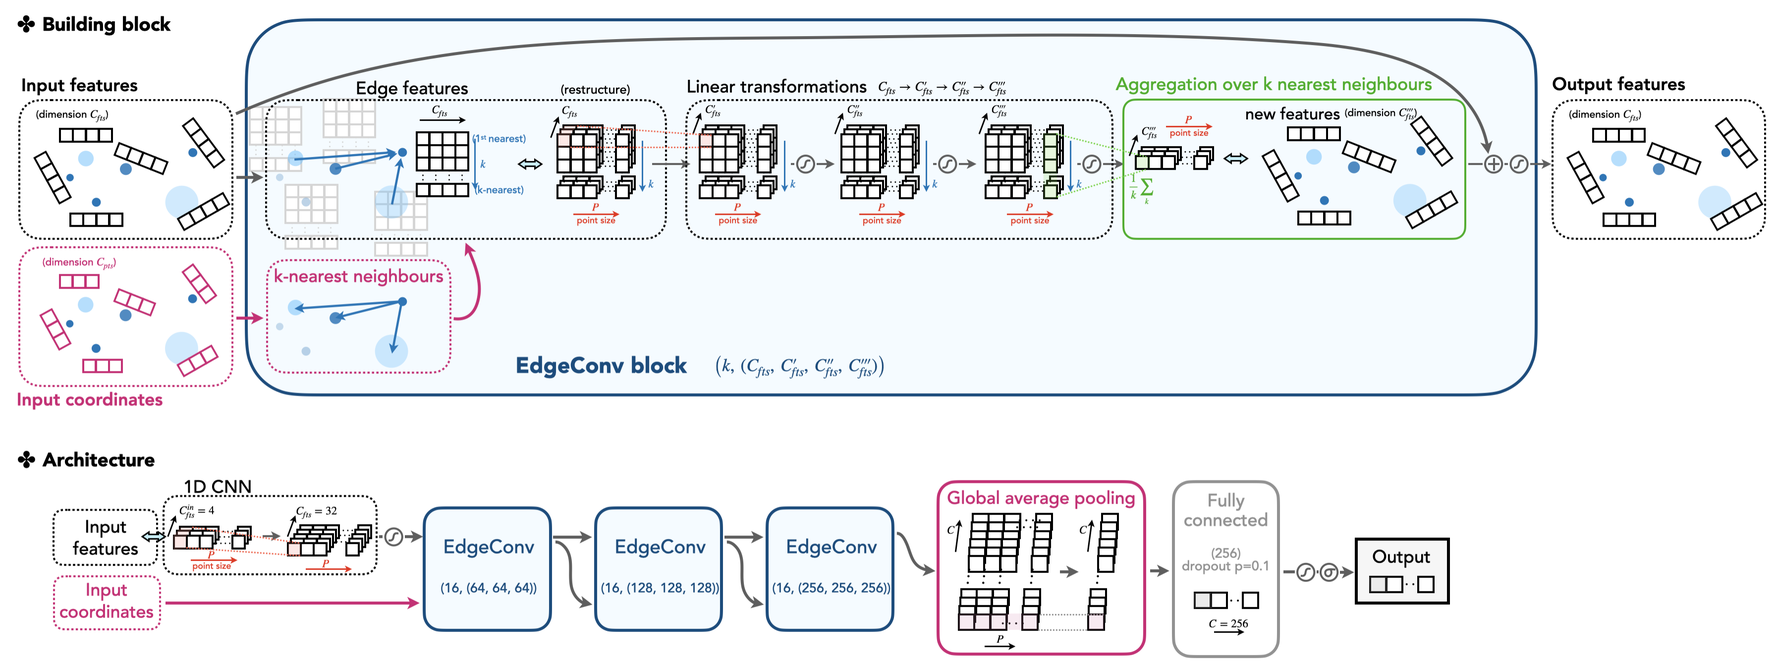
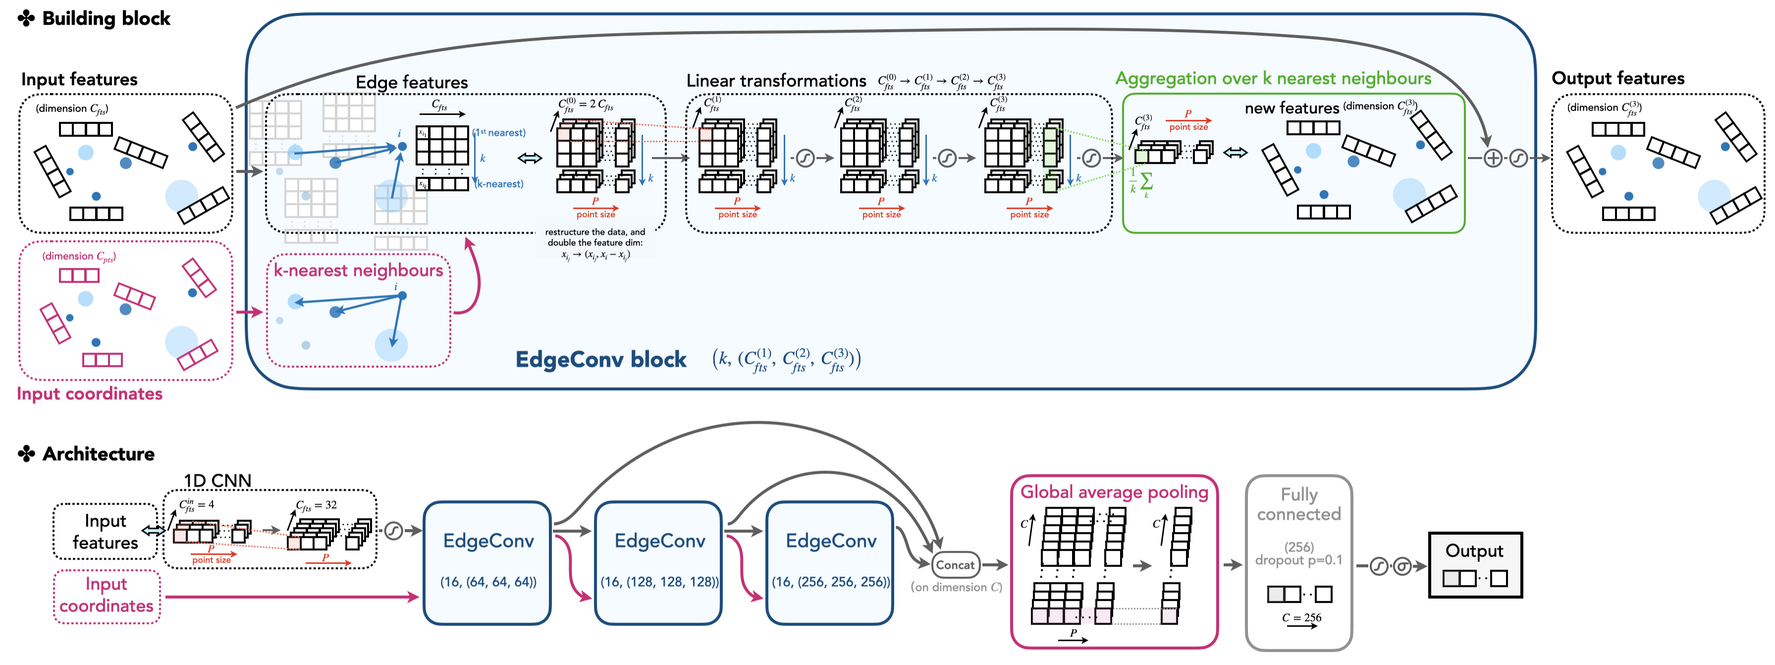
Update the ParticleNet section in the training subsection and the full architecture plot

diff --git a/content/inference/particlenet.md b/content/inference/particlenet.md
@@ -69,7 +69,7 @@ The imaged-based data explored by a 2D CNN stems from the image recognition task
 Here we briefly summarize the applications and ongoing works on ParticleNet. Public CMS results include
 
  - large-*R* jet with *R*=0.8 tagging (for W/Z/H/t) using ParticleNet [[CMS-DP-2020/002](https://cds.cern.ch/record/2707946/files/DP2020_002.pdf)]
- - regression on the large-*R* jet mass based on the ParticleNet model [[CMS-DP-2020/002](https://cds.cern.ch/record/2777006/files/DP2021_017.pdf)]
+ - regression on the large-*R* jet mass based on the ParticleNet model [[CMS-DP-2021/017](https://cds.cern.ch/record/2777006/files/DP2021_017.pdf)]
 
 ParticleNet architecture is also applied on small radius *R*=0.4 jets for the b/c-tagging and quark/gluon classification (see [this talk (CMS internal)](https://indico.cern.ch/event/956305/contributions/4027291/attachments/2111830/3552486/ParticleNet_AK4_JMAR_20200929_H_Qu.pdf)). A recent ongoing work applies the ParticleNet architecture in heavy flavour tagging at HLT (see [this talk (CMS internal)](https://indico.cern.ch/event/1037711/contributions/4357618/attachments/2242179/3801855/Raffaele_10_05_2021.pdf)). The ParticleNet model is recently updated to ParticleNeXt and see further improvement (see the [ML4Jets 2021 talk](https://indico.cern.ch/event/980214/contributions/4413544/attachments/2277334/3868991/ParticleNeXt_ML4Jets2021_H_Qu.pdf)).
 
@@ -109,12 +109,17 @@ Then, we show three NN model configurations below and provide detailed explanati
 
 === "A simple MLP"
 
-    A simple multi-layer perception model is first provided here as proof of the concept. All layers are based on the linear transformation of the 1D vectors. The model configuration card is shown in `networks/top/mlp_pf.py`. First, we implement an MLP network in the `nn.Module` class.
+    <figure>
+    <img src="images/mlp_full_arch.png" width="70%"/>
+    <figcaption>The full architecture of the proof-of-concept multi-layer perceptron model.</figcaption>
+    </figure>
+
+    A simple multi-layer perceptron model is first provided here as proof of the concept. All layers are based on the linear transformation of the 1D vectors. The model configuration card is shown in `networks/top/mlp_pf.py`. First, we implement an MLP network in the `nn.Module` class.
 
     ???+ hint "MLP implementation"
-        Also, see [`networks/top/mlp_pf.py`](https://github.com/colizz/weaver-benchmark/networks/top/mlp_pf.py). We elaborate here on several aspects.
+        Also, see [`networks/top/mlp_pf.py`](https://github.com/colizz/weaver-benchmark/blob/main/networks/top/mlp_pf.py). We elaborate here on several aspects.
 
-         - A sequence of linear layers and ReLU activation functions is defined in `nn.Sequential(nn.Linear(channels[i], channels[i + 1]), nn.ReLU()`. By combining multiple of them, we construct a simple multi-layer perceptron.
+         - A sequence of linear layers and ReLU activation functions is defined in `nn.Sequential(nn.Linear(channels[i], channels[i + 1]), nn.ReLU())`. By combining multiple of them, we construct a simple multi-layer perceptron.
 
          - The input data `x` takes the 3D format, in the dimension `(N, C, P)`, which is decided by our data structure and the data configuration card. Here, `N` is the mini-batch size, `C` is the feature size, and `P` is the size of constituents per jet. To feed into our MLP, we flatten the last two dimensions by `x = x.flatten(start_dim=1)` to form the vector of dimension `(N, L)`.
 
@@ -131,7 +136,7 @@ Then, we show three NN model configurations below and provide detailed explanati
             """
 
             def __init__(self, input_dims, num_classes,
-                        layer_params=(),
+                        layer_params=(1024, 256, 256),
                         **kwargs):
                         
                 super(MultiLayerPerceptron, self).__init__(**kwargs)
@@ -151,14 +156,14 @@ Then, we show three NN model configurations below and provide detailed explanati
     Then, we write the `get_model` and `get_loss` functions which will be sent into `Weaver`'s training code.
 
     ???+ hint "`get_model` and `get_loss` function"
-        Also see [`networks/top/mlp_pf.py`](https://github.com/colizz/weaver-benchmark/networks/top/mlp_pf.py). We elaborate here on several aspects.
+        Also see [`networks/top/mlp_pf.py`](https://github.com/colizz/weaver-benchmark/blob/main/networks/top/mlp_pf.py). We elaborate here on several aspects.
 
          - Inside `get_model`, the `model` is essentially the MLP class we define, and the `model_info` takes the default definition, including the input/output shape, the dimensions of the dynamic axes for the input/output data shape that will guide the ONNX model exportation. 
          - The `get_loss` function is not changed as in the classification task we always use the cross-entropy loss function.
 
         ```python linenums="1"
         def get_model(data_config, **kwargs):
-            layer_params = (2048, 256, 256)
+            layer_params = (1024, 256, 256)
             _, pf_length, pf_features_dims = data_config.input_shapes['pf_features']
             input_dims = pf_length * pf_features_dims
             num_classes = len(data_config.label_value)
@@ -179,7 +184,7 @@ Then, we show three NN model configurations below and provide detailed explanati
             return torch.nn.CrossEntropyLoss()
         ```      
 
-    Below show the full structure of the MLP network printed by PyTorch. You will see it in the `Weaver` output during the training.
+    Below shows the full structure of the MLP network printed by PyTorch. You will see it in the `Weaver` output during the training.
 
     ??? hint "The full-scale structure of the MLP network"
         ```
@@ -213,26 +218,104 @@ Then, we show three NN model configurations below and provide detailed explanati
 
     The data card is shown in `data/top/pf_features.yaml`. It defines one input group, `pf_features`, which takes four variables `Etarel`, `Phirel`, `E_log`, `P_log`. This is based on our data structure, where these variables are 2D vectors with variable lengths. The `length` is chosen as 100 in a way that the last dimension (the jet constituent dimension) is always truncated or padded to have length 100.
     
-    In the following two models (i,e., the DeepAK8 and the ParticleNet model) you will see that the data cards are very similar. The change will only be the way we present the input group(s).
+    ???+ hint "MLP data config `data/top/pf_features.yaml`"
+        Also see [`data/top/pf_features.yaml`](https://github.com/colizz/weaver-benchmark/blob/main/data/top/pf_features.yaml). See a tour guide to the data configuration card in [`Weaver` README](https://github.com/hqucms/weaver).
+        ```yaml linenums="1"
+        selection:
+        ### use `&`, `|`, `~` for logical operations on numpy arrays
+        ### can use functions from `math`, `np` (numpy), and `awkward` in the expression
 
+        new_variables:
+        ### [format] name: formula
+        ### can use functions from `math`, `np` (numpy), and `awkward` in the expression
+        is_bkg: np.logical_not(is_signal_new)
 
+        preprocess:
+        ### method: [manual, auto] - whether to use manually specified parameters for variable standardization
+        method: manual
+        ### data_fraction: fraction of events to use when calculating the mean/scale for the standardization
+        data_fraction: 
+
+        inputs:
+        pf_features:
+            length: 100
+            vars: 
+            ### [format 1]: var_name (no transformation)
+            ### [format 2]: [var_name, 
+            ###              subtract_by(optional, default=None, no transf. if preprocess.method=manual, auto transf. if preprocess.method=auto), 
+            ###              multiply_by(optional, default=1), 
+            ###              clip_min(optional, default=-5), 
+            ###              clip_max(optional, default=5), 
+            ###              pad_value(optional, default=0)]
+                - Etarel
+                - Phirel
+                - [E_log, 2, 1]
+                - [P_log, 2, 1]
+
+        labels:
+        ### type can be `simple`, `custom`
+        ### [option 1] use `simple` for binary/multi-class classification, then `value` is a list of 0-1 labels
+        type: simple
+        value: [
+            is_signal_new, is_bkg
+            ]
+        ### [option 2] otherwise use `custom` to define the label, then `value` is a map
+        # type: custom
+        # value: 
+            # target_mass: np.where(fj_isQCD, fj_genjet_sdmass, fj_gen_mass) 
+
+        observers:
+        - origIdx
+        - idx
+        - E_tot
+        - PX_tot
+        - PY_tot
+        - PZ_tot
+        - P_tot
+        - Eta_tot
+        - Phi_tot
+
+        # weights:
+        ### [option 1] use precomputed weights stored in the input files
+        # use_precomputed_weights: true
+        # weight_branches: [weight, class_weight]
+        ### [option 2] compute weights on-the-fly using reweighting histograms
+        ```
+
+    In the following two models (i.e., the DeepAK8 and the ParticleNet model) you will see that the data card is very similar. The change will only be the way we present the input group(s).
+    
 === "DeepAK8 (1D CNN)"
 
+    <figure>
+    <img src="images/deepak8_full_arch.png"/>
+    <figcaption>The full architecture of the DeepAK8 model, which is based on 1D CNN with ResNet architecture.</figcaption>
+    </figure>
+
     !!! note
-        The DeepAK8 tagger is a widely used highly-boosted jet tagging in the CMS community. The design of the model can be found in the CMS paper [[arXiv:2004.08262](https://arxiv.org/abs/2004.08262)]. The original model is trained on MXNet and its configuration can be found [here](https://github.com/hqucms/NNTools/blob/master/training/symbols/sym_ak8_pfcand_sv_resnet_v1.py). 
+        The DeepAK8 tagger is a widely used highly-boosted jet tagger in the CMS community. The design of the model can be found in the CMS paper [[arXiv:2004.08262](https://arxiv.org/abs/2004.08262)]. The original model is trained on MXNet and its configuration can be found [here](https://github.com/hqucms/NNTools/blob/master/training/symbols/sym_ak8_pfcand_sv_resnet_v1.py). 
         
-        We now migrate the model architecture to `Weaver` and train it on Pytorch. Also, we narrow the multi-class output score to the binary output to adapt our binary classification task (top vs. QCD jet).
+        We now migrate the model architecture to `Weaver` and train it on PyTorch. Also, we narrow the multi-class output score to the binary output to adapt our binary classification task (top vs. QCD jet).
 
     The model card is given in `networks/top/deepak8_pf.py`. The DeepAK8 model is inspired by the ResNet architecture. The key ingredient is the ResNet unit constructed by multiple CNN layers with a shortcut connection. First, we define the ResNet unit in the model card.
     
     ???+ hint "ResNet unit implementation"
-        See [`networks/top/deepak8_pf.py`](https://github.com/colizz/weaver-benchmark/networks/top/deepak8_pf.py). We elaborate here on several aspects.
+        See [`networks/top/deepak8_pf.py`](https://github.com/colizz/weaver-benchmark/blob/main/networks/top/deepak8_pf.py). We elaborate here on several aspects.
 
          - A ResNet unit is made of two 1D CNNs with batch normalization and ReLU activation function.
          - The shortcut is introduced here by directly adding the input data to the processed data after passing the CNN layers. The shortcut connection help to ease the training for the "deeper" model [[arXiv:1512.03385](https://arxiv.org/pdf/1512.03385.pdf)]. Note that a trivial linear transformation is applied (`self.conv_sc`) if the feature dimension of the input and output data does not match.
 
         ```python linenums="1"
         class ResNetUnit(nn.Module):
+            r"""Parameters
+            ----------
+            in_channels : int
+                Number of channels in the input vectors.
+            out_channels : int
+                Number of channels in the output vectors.
+            strides: tuple
+                Strides of the two convolutional layers, in the form of (stride0, stride1)
+            """
+
             def __init__(self, in_channels, out_channels, strides=(1,1), **kwargs):
                 
                 super(ResNetUnit, self).__init__(**kwargs)
@@ -268,7 +351,7 @@ Then, we show three NN model configurations below and provide detailed explanati
     ```
 
     ???+ hint "DeepAK8 model implementation"
-        See [`networks/top/deepak8_pf.py`](https://github.com/colizz/weaver-benchmark/networks/top/deepak8_pf.py). Note that the main architecture is a Pytorch re-implementation of the code [here](https://github.com/hqucms/NNTools/blob/master/training/symbols/sym_ak8_pfcand_sv_resnet_v1.py) based on the MXNet.
+        See [`networks/top/deepak8_pf.py`](https://github.com/colizz/weaver-benchmark/blob/main/networks/top/deepak8_pf.py). Note that the main architecture is a PyTorch re-implementation of the code [here](https://github.com/hqucms/NNTools/blob/master/training/symbols/sym_ak8_pfcand_sv_resnet_v1.py) based on the MXNet.
 
         ```python linenums="1"
         class ResNet(nn.Module):
@@ -282,6 +365,9 @@ Then, we show three NN model configurations below and provide detailed explanati
                 List of the convolution layer parameters. 
                 The first element is a tuple of size 1, defining the transformed feature size for the initial feature convolution layer.
                 The following are tuples of feature size for multiple stages of the ResNet units. Each number defines an individual ResNet unit.
+            fc_params: list
+                List of fully connected layer parameters after all EdgeConv blocks, each element in the format of
+                (n_feat, drop_rate)
             """
 
             def __init__(self, features_dims, num_classes,
@@ -357,7 +443,7 @@ Then, we show three NN model configurations below and provide detailed explanati
             return torch.nn.CrossEntropyLoss()
         ```
     
-    Below show the full structure of the DeepAK8 model based on 1D CNN with ResNet. It is printed by PyTorch and you will see it in the `Weaver` output during training.
+    Below shows the full structure of the DeepAK8 model based on 1D CNN with ResNet. It is printed by PyTorch and you will see it in the `Weaver` output during training.
     
     ??? hint "The full-scale structure of the DeepAK8 architecture"
 
@@ -451,8 +537,13 @@ Then, we show three NN model configurations below and provide detailed explanati
 
 === "ParticleNet (DGCNN)"
 
+    <figure>
+    <img src="images/particlenet_full_arch.png"/>
+    <figcaption>The full architecture of the ParticleNet model, which is based on DGCNN and EdgeConv.</figcaption>
+    </figure>
+
     !!! note
-        The ParticleNet model applied to the CMS analysis is provided in `networks/particlenet_pf_sv.py`, and the data card in `data/ak15_points_pf_sv.yaml`. Here we use a similar configuration card to deal with the benchmark task.
+        The ParticleNet model applied to the CMS analysis is provided in [`weaver/networks/particle_net_pf_sv.py`](https://github.com/hqucms/weaver/blob/master/networks/particle_net_pf_sv.py), and the data card in [`weaver/data/ak15_points_pf_sv.yaml`](https://github.com/hqucms/weaver/blob/master/data/ak15_points_pf_sv.yaml). Here we use a similar configuration card to deal with the benchmark task.
     
     We will elaborate on the ParticleNet model and focus more on the technical side in this section. The model is defined in `networks/top/particlenet_pf.py`, but it imports some constructor, the EdgeConv block, in `weaver/utils/nn/model/ParticleNet.py`. The EdgeConv is illustrated in the cartoon.
 
@@ -467,7 +558,10 @@ Then, we show three NN model configurations below and provide detailed explanati
 
     ![edgeconv_architecture](images/edgeconv_architecture.png){ loading=lazy align=left width=200 }
 
-    The edge convolution is an analogues convolution method defined on a point cloud, whose shape is given by the "coordinates" of points. Specifically, the input "coordinates" provide a view of spatial relations of the points in the Euclidean space. It determines the *k*-nearest neighbouring points for each point that will guide the update of the feature vector of a point. For each point, the updated feature vector is based on the current state of the point and its *k* neighbours. Guided by this spirit, all features of the point cloud forms a 3D vector with dimensions `(C, P, K)`, where `C` is the per-point feature size (e.g., *η*, *φ*, *p*<sub>T</sub>，...), `P` is the number of points, and K the *k*-NN number. The structured vector is linearly transformed by acting 2D CNN on the feature dimension `C`. This helps to aggregate the feature information and exploit the correlations of each point with its adjacent points. A shortcut connection is also introduced inspired by the ResNet.
+    The edge convolution is an analogue convolution method defined on a point cloud, whose shape is given by the "coordinates" of points. Specifically, the input "coordinates" provide a view of spatial relations of the points in the Euclidean space. It determines the *k*-nearest neighbouring points for each point that will guide the update of the feature vector of a point. For each point, the updated feature vector is based on the current state of the point and its *k* neighbours. Guided by this spirit, all features of the point cloud forms a 3D vector with dimensions `(C, P, K)`, where `C` is the per-point feature size (e.g., *η*, *φ*, *p*<sub>T</sub>，...), `P` is the number of points, and K the *k*-NN number. The structured vector is linearly transformed by acting 2D CNN on the feature dimension `C`. This helps to aggregate the feature information and exploit the correlations of each point with its adjacent points. A shortcut connection is also introduced inspired by the ResNet.
+
+    !!! note
+        The feature dimension `C` after exploring the *k* neighbours of each point actually doubles the value of the initial feature dimension. Here, a new set of features is constructed by subtracting the feature a point carries to the features its *k* neighbours carry (namely *x*<sub>*i*</sub> – *x*<sub>*i_j*</sub> for point *i*, and *j*=1,...,*k*). This way, the correlation of each point with its neighbours are well captured.
 
     Below shows how the EdgeConv structure is implemented in the code. 
 
@@ -476,7 +570,7 @@ Then, we show three NN model configurations below and provide detailed explanati
 
           - The `EdgeConvBlock` takes the feature dimension `in_feat`, `out_feats` which are `C_fts`, `C_fts_out` we introduced above.
           - The input data vectors to `forward()` are "coordinates" and "features" vector, in the dimension of `(N, C_pts(C_fts), P)` as introduced above. The first dimension is the mini-batch size.
-          - `self.get_graph_feature()` helps to aggregate *k*-nearest neighbours for each point. The resulting vector is in the dimension of `(N, C_fts, P, K)` as we discussed above, K being the *k*-NN number.
+          - `self.get_graph_feature()` helps to aggregate *k*-nearest neighbours for each point. The resulting vector is in the dimension of `(N, C_fts(0), P, K)` as we discussed above, `K` being the *k*-NN number. Note that the `C_fts(0)` doubles the value of the original input feature dimension `C_fts` as mentioned above.
           - After convolutions, the per-point features are merged by taking the mean of all *k*-nearest neighbouring vectors:
           ```python
           fts = x.mean(dim=-1)  # (N, C, P)
@@ -538,7 +632,7 @@ Then, we show three NN model configurations below and provide detailed explanati
                 # N: batch size, C: feature size per point, P: number of points
 
                 topk_indices = knn(points, self.k) # (N, P, K)
-                x = self.get_graph_feature(features, self.k, topk_indices) # (N, C_fts, P, K)
+                x = self.get_graph_feature(features, self.k, topk_indices) # (N, C_fts(0), P, K)
 
                 for conv, bn, act in zip(self.convs, self.bns, self.acts):
                     x = conv(x)  # (N, C', P, K)
@@ -565,7 +659,7 @@ Then, we show three NN model configurations below and provide detailed explanati
 
     The ParticleNet model stacks three EdgeConv blocks to construct higher-level features and passing them through the pipeline. The points (i.e., in our case, the particle candidates inside a jet) are not changing, but the per-point "coordinates" and "features" vectors changes, in both values and dimensions.
 
-    For the first EdgeConv block, the "coordinates" only includes the relative *η* and *φ* value of each particle. The "features" is a vector with a standard length of 32, which is linearly transformed from the initial feature vectors including the components of relative *η*, *φ*, the log of *p*<sub>T</sub>, etc. The first EdgeConv block outputs a per-point feature vector of length 64, which is taken as both the "coordinates" and "features" to the next EdgeConv block. That is to say, the next *k*-NN is applied on the 64D high-dimensional spatial space to capture the new relations of points learned by the model. This is visualized by the input/output array showing the data flow of the model. We see that this architecture illustrates the stackability of the EdgeConv block, and is the core to the Dynamic Graph CNN (DGCNN), as the model can dynamically change the correlations of each point based on learnable features. 
+    For the first EdgeConv block, the "coordinates" only include the relative *η* and *φ* value of each particle. The "features" is a vector with a standard length of 32, which is linearly transformed from the initial feature vectors including the components of relative *η*, *φ*, the log of *p*<sub>T</sub>, etc. The first EdgeConv block outputs a per-point feature vector of length 64, which is taken as both the "coordinates" and "features" to the next EdgeConv block. That is to say, the next *k*-NN is applied on the 64D high-dimensional spatial space to capture the new relations of points learned by the model. This is visualized by the input/output arrows showing the data flow of the model. We see that this architecture illustrates the stackability of the EdgeConv block, and is the core to the Dynamic Graph CNN (DGCNN), as the model can dynamically change the correlations of each point based on learnable features. 
     
     A fusion technique is also used by concatenating the three EdgeConv output vectors together (adding the dimensions), instead of using the last EdgeConv output, to form an output vector. This is also one form of shortcut implementations that helps to ease the training for a complex and deep convolutional network model.
 
@@ -574,7 +668,7 @@ Then, we show three NN model configurations below and provide detailed explanati
     The ParticleNet implementation is shown below.
 
     ???+ hint "ParticleNet model implementation"
-        See [`utils/nn/model/ParticleNet.py`](https://github.com/hqucms/weaver/blob/master/utils/nn/model/ParticleNet.py), or the following code block annotated with more comments. We elaborate here on several mean points.
+        See [`weaver/utils/nn/model/ParticleNet.py`](https://github.com/hqucms/weaver/blob/master/utils/nn/model/ParticleNet.py), or the following code block annotated with more comments. We elaborate here on several mean points.
 
           - The stack of multiple EdgeConv blocks are implemented in
             ```python
@@ -715,7 +809,7 @@ Then, we show three NN model configurations below and provide detailed explanati
          Two sets of point clouds in the CMS application, namely the particle-flow candidates and secondary vertices, are used. This requires special handling to merge the clouds before feeding them to the first layer of EdgeConv.
     
     ???+ hint "ParticleNet model config"
-
+        Also see [`networks/top/particlenet_pf.py`](https://github.com/colizz/weaver-benchmark/blob/main/networks/top/particlenet_pf.py).
         ```python linenums="1"
         import torch
         import torch.nn as nn
@@ -915,9 +1009,10 @@ Then, we show three NN model configurations below and provide detailed explanati
         )
         ```
 
-    The data card is shown in `data/top/pf_features.yaml`, given in a similar way as in the MLP example. Here we group the inputs into three classes: `pf_points`, `pf_features` and `pf_masks`. They correspond to the `forward(self, pf_points, pf_features, pf_mask)` prototype of our `nn.Module` model, and will send in these 2D vectors in the mini-batch size for each iteration during training/prediction.
+    The data card is shown in `data/top/pf_points_features.yaml`, given in a similar way as in the MLP example. Here we group the inputs into three classes: `pf_points`, `pf_features` and `pf_masks`. They correspond to the `forward(self, pf_points, pf_features, pf_mask)` prototype of our `nn.Module` model, and will send in these 2D vectors in the mini-batch size for each iteration during training/prediction.
     
-    ???+ hint "ParticleNet data config"
+    ???+ hint "ParticleNet data config `data/top/pf_points_features.yaml`"
+        See [`data/top/pf_points_features.yaml`](https://github.com/colizz/weaver-benchmark/blob/main/data/top/pf_points_features.yaml).
         ```yaml linenums="1"
         selection:
         ### use `&`, `|`, `~` for logical operations on numpy arrays
@@ -939,9 +1034,8 @@ Then, we show three NN model configurations below and provide detailed explanati
         pf_points:
             length: 100
             vars: 
-                - [PX, 0, 0.05]
-                - [PY, 0, 0.05]
-                - [PZ, 0, 0.05]
+                - Etarel
+                - Phirel
         pf_features:
             length: 100
             vars: 
@@ -952,10 +1046,10 @@ Then, we show three NN model configurations below and provide detailed explanati
             ###              clip_min(optional, default=-5), 
             ###              clip_max(optional, default=5), 
             ###              pad_value(optional, default=0)]
-                - [PX, 0, 0.05]
-                - [PY, 0, 0.05]
-                - [PZ, 0, 0.05]
+                - Etarel
+                - Phirel
                 - [E_log, 2, 1]
+                - [P_log, 2, 1]
         pf_mask:
             length: 100
             vars: 
@@ -993,25 +1087,9 @@ Then, we show three NN model configurations below and provide detailed explanati
 
 -----------
 
-Above, we analyze the three networks in a detailed manner. As a summary, we draw the three network architectures in the following three cartoons for a more overall and comprehensive understanding.
+Now we have walked through the detailed description of three networks in their architecture as well as their implementations in `Weaver`. 
 
-<figure>
-<img src="images/mlp_full_arch.png" width="70%"/>
-<figcaption>The full architecture of the proof-of-concept multi-layer perception model.</figcaption>
-</figure>
-
-<figure>
-<img src="images/deepak8_full_arch.png"/>
-<figcaption>The full architecture of the DeepAK8 model, which is based on 1D CNN with ResNet architecture.</figcaption>
-</figure>
-
-<figure>
-<img src="images/particlenet_full_arch.png"/>
-<figcaption>The full architecture of the ParticleNet model, which is based on DGCNN and EdgeConv.</figcaption>
-</figure>
-
-
-The model and data configuration cards, the number of parameters, and computational complexity are summarized in the following table. Note that we'll refer to the shell variables provided here in the following training example.
+Before ending this section, we summarize the three networks on their (1) model and data configuration cards, (2) the number of parameters, and (3) computational complexity in the following table. Note that we'll refer to the shell variables provided here in the following training example.
 
 | Model               | `${prefix}`   | `${model_config}`                   | `${data_config}`                     | Parameters | Computational complexity |
 | ------------------- | ------------- | ----------------------------------- | ------------------------------------ | ---------- | ------------------------ |
@@ -1024,7 +1102,7 @@ The model and data configuration cards, the number of parameters, and computatio
 
 Now we train the three neural networks based on the provided model and data configurations. 
 
-Here we present three ways of training. For readers who have a local machine with CUDA GPUs, please try out training on the local GPUs. Readers who would like to try on CPUs can also refer to the local GPU instruction. It is also possible to borrow the GPU resources from the lxplus condor or CMS-connect. Please find in the following that meets your situation.
+Here we present three ways of training. For readers who have a local machine with CUDA GPUs, please try out training on the local GPUs. Readers who would like to try on CPUs can also refer to the local GPU instruction. It is also possible to borrow the GPU resources from the lxplus HTCondor or CMS Connect. Please find in the following that meets your situation.
 
 === "Train on local GPUs"
 
@@ -1043,16 +1121,24 @@ Here we present three ways of training. For readers who have a local machine wit
     --log output/${prefix}.train.log
     ```
 
-    Here are several caveats running this command.
+    Here `--gpus 0,1` specifies the GPUs to run with the device ID 1 and 2. please use `--gpu ''`.
+    
+    A detailed description of the training command can be found in [`Weaver` README](https://github.com/hqucms/weaver). We would say a few more words in the data loading options, because it depends on the scenarios we feed in the input data. Here are several caveats.
 
-    !!! warning
-         - `--fetch-by-file` is very important when you have only a few input files. Please see `Weaver` README for more details on this argument. 
-         
-         A common situation is that when you have only one input file that includes both signal and backgrounds, but events are not well mixed. Then, it is a must to use `--fetch-by-file`, because otherwise, only a small collection of events on the top are read into the memory and sending to the mini-batch after shuffling. In such cases, events can have a strong bias in different categories (the most extreme case is that it only contains one category) and may confuse the training. By using `--fetch-by-file`, all events in a file are read into the memory, shuffled properly and sent to the mini-batch.
+    !!! warning "Caveats on the data loading options"
+        Our goal in data loading is to guarantee that the data loaded in every mini-batch is evenly distributed with different labels, though they are not necessarily stored evenly in the file. Despite this goal, we also need to ensure that on-the-fly data loading into the memory should be smooth and not be the bottleneck; the total amount of loaded data also need to be controlled so as not to explode the entire memory. These all guide us on how we choose the correct option.
 
-         - Specify GPUS based on their device IDs. For running on CPUs, please use `--gpu ''`.
+         - in the default case, data are loaded from every input file with a small proportion per fetch-step, provided by `--fetch-step` (default is 0.01). This adapts to the case when we have multiple classes of input, each class having multiple files (e.g., it adapts to the real CMS application because we may have multiple `nano_i.root` files for different input classes). The strategy gathered all pieces per fetch-step from all input files, shuffle them, and present the data we need in each regular mini-batch. One can also append `--num-workers n` with `n` being the number of paralleled workers to load the data.
+         - `--fetch-step 1 --num-workers 1`. This strategy helps in the case we have few input files with data in different labels not evenly distributed. In the extreme case, we only have 1 file, with all data at the top being one class (signal) and data at the bottom being another class (background), or we have 2 or multiple files, each containing a specific class. In this option, `--fetch-step 1` guarantees the entire data in the file is loaded and participate in the shuffle. Therefore all classes are safely mixed before sending to the mini-batch. `--num-workers 1` means we only use one worker that takes care of all files to avoid inconsistent loading speeds of multiple workers (depending on CPUs). This strategy can further cooperate with `--in-memory` so that all data are put permanently in memory and will not be reloaded every epoch.
+         `--fetch-by-file` is the option we can use when all input files have a similar structure. See [`Weaver` README](https://github.com/hqucms/weaver):
+        
+        > An alternative approach is the "file-based" strategy, which can be enabled with `--fetch-by-files`. This approach will instead read all events from every file for each step, and it will read `m` input files (`m` is set by `--fetch-step`) before mixing and shuffling the loaded events. This strategy is more suitable when each input file is already a mixture of all types of events (e.g., pre-processed with NNTools), otherwise it may lead to suboptimal training performance. However, a higher data loading speed can generally be achieved with this approach.
 
-    Then, predict the score on the test datasets using the best model:
+        Please note that you can test if all data classes are well mixed by printing the truth label in each mini-batch. Also, remember to test if data are loaded just-in-time by monitoring the GPU performance — if switching the data loading strategy helps improve the GPU efficiency, it means the previous data loader is the bottleneck in the pipeline to deliver and use the data.
+    
+    ---------------------
+
+    After training, we predict the score on the test datasets using the best model:
 
     ```python
     python train.py --predict \
@@ -1170,6 +1256,7 @@ Here is the result from my training:
 
 We see that the ParticleNet model shows an outstanding performance in this classification task. Besides, the DeepAK8 and ParticleNet results are similar to the benchmark values found in the [gDoc](https://docs.google.com/document/d/1Hcuc6LBxZNX16zjEGeq16DAzspkDC4nDTyjMp1bWHRo/edit). We address that the performance can be further improved by fine-tuning on the model, and by taking the average predicted score from an ensemble of the trained model with different initial parametrization - a well known ML technique to pursue an extra few percent of improvements.
 
+It is also worth noting that, in this training example, we only use four input variables and do not use a full suite of input features as done in the original paper. Additional variables (eg Δ*R* or log(*p*<sub>T</sub > / *p*<sub>T</sub>(jet))) can be designed based on the given 4-momenta, and, although providing redundant information in principle, can still help the network fully exploit the point cloud structure and thus do a better discrimination job.
 
 ## Tuning the ParticleNet model
 
@@ -1181,7 +1268,7 @@ The optimizer decides how our neural network update all its parameters, and the 
 
 Learning rate is the most important hyperparameter to choose from before concrete training is done. Here we quote from a suggested strategy: if you only have the opportunity to optimize one hyperparameter, choose the learning rate. The optimizer is also important because a wiser strategy usually means avoid the zig-zagging updating route, avoid falling into the local minima and even adapting different strategies for the fast-changing parameters and the slow ones. Adam (and its several variations) is a widely used optimizer. Another recently developed advanced optimizer is Ranger that combines RAdam and LookAhead. However, one should note that the few percent level improvement by using different optimizers is likely to be smeared by an unoptimized learning rate.
 
-The above training scheme uses a start learning rate of 5e-3, and Ranger as the optimizer. It uses a `flat+decay` schedular, in a way that the LR starts to decay after processing 70% of epochs, and gradually reduce to 0.1 of its original value when nearing the completion of all epochs.
+The above training scheme uses a start learning rate of 5e-3, and Ranger as the optimizer. It uses a `flat+decay` schedular, in a way that the LR starts to decay after processing 70% of epochs, and gradually reduce to 0.01 of its original value when nearing the completion of all epochs.
 
 First, we note that the current case is already well optimized. Therefore, by simply reuse the current choice, the training will converge to a stable result in general. But it is always good in practice to test several choices of the optimizer and reoptimize the learning rate.
 
